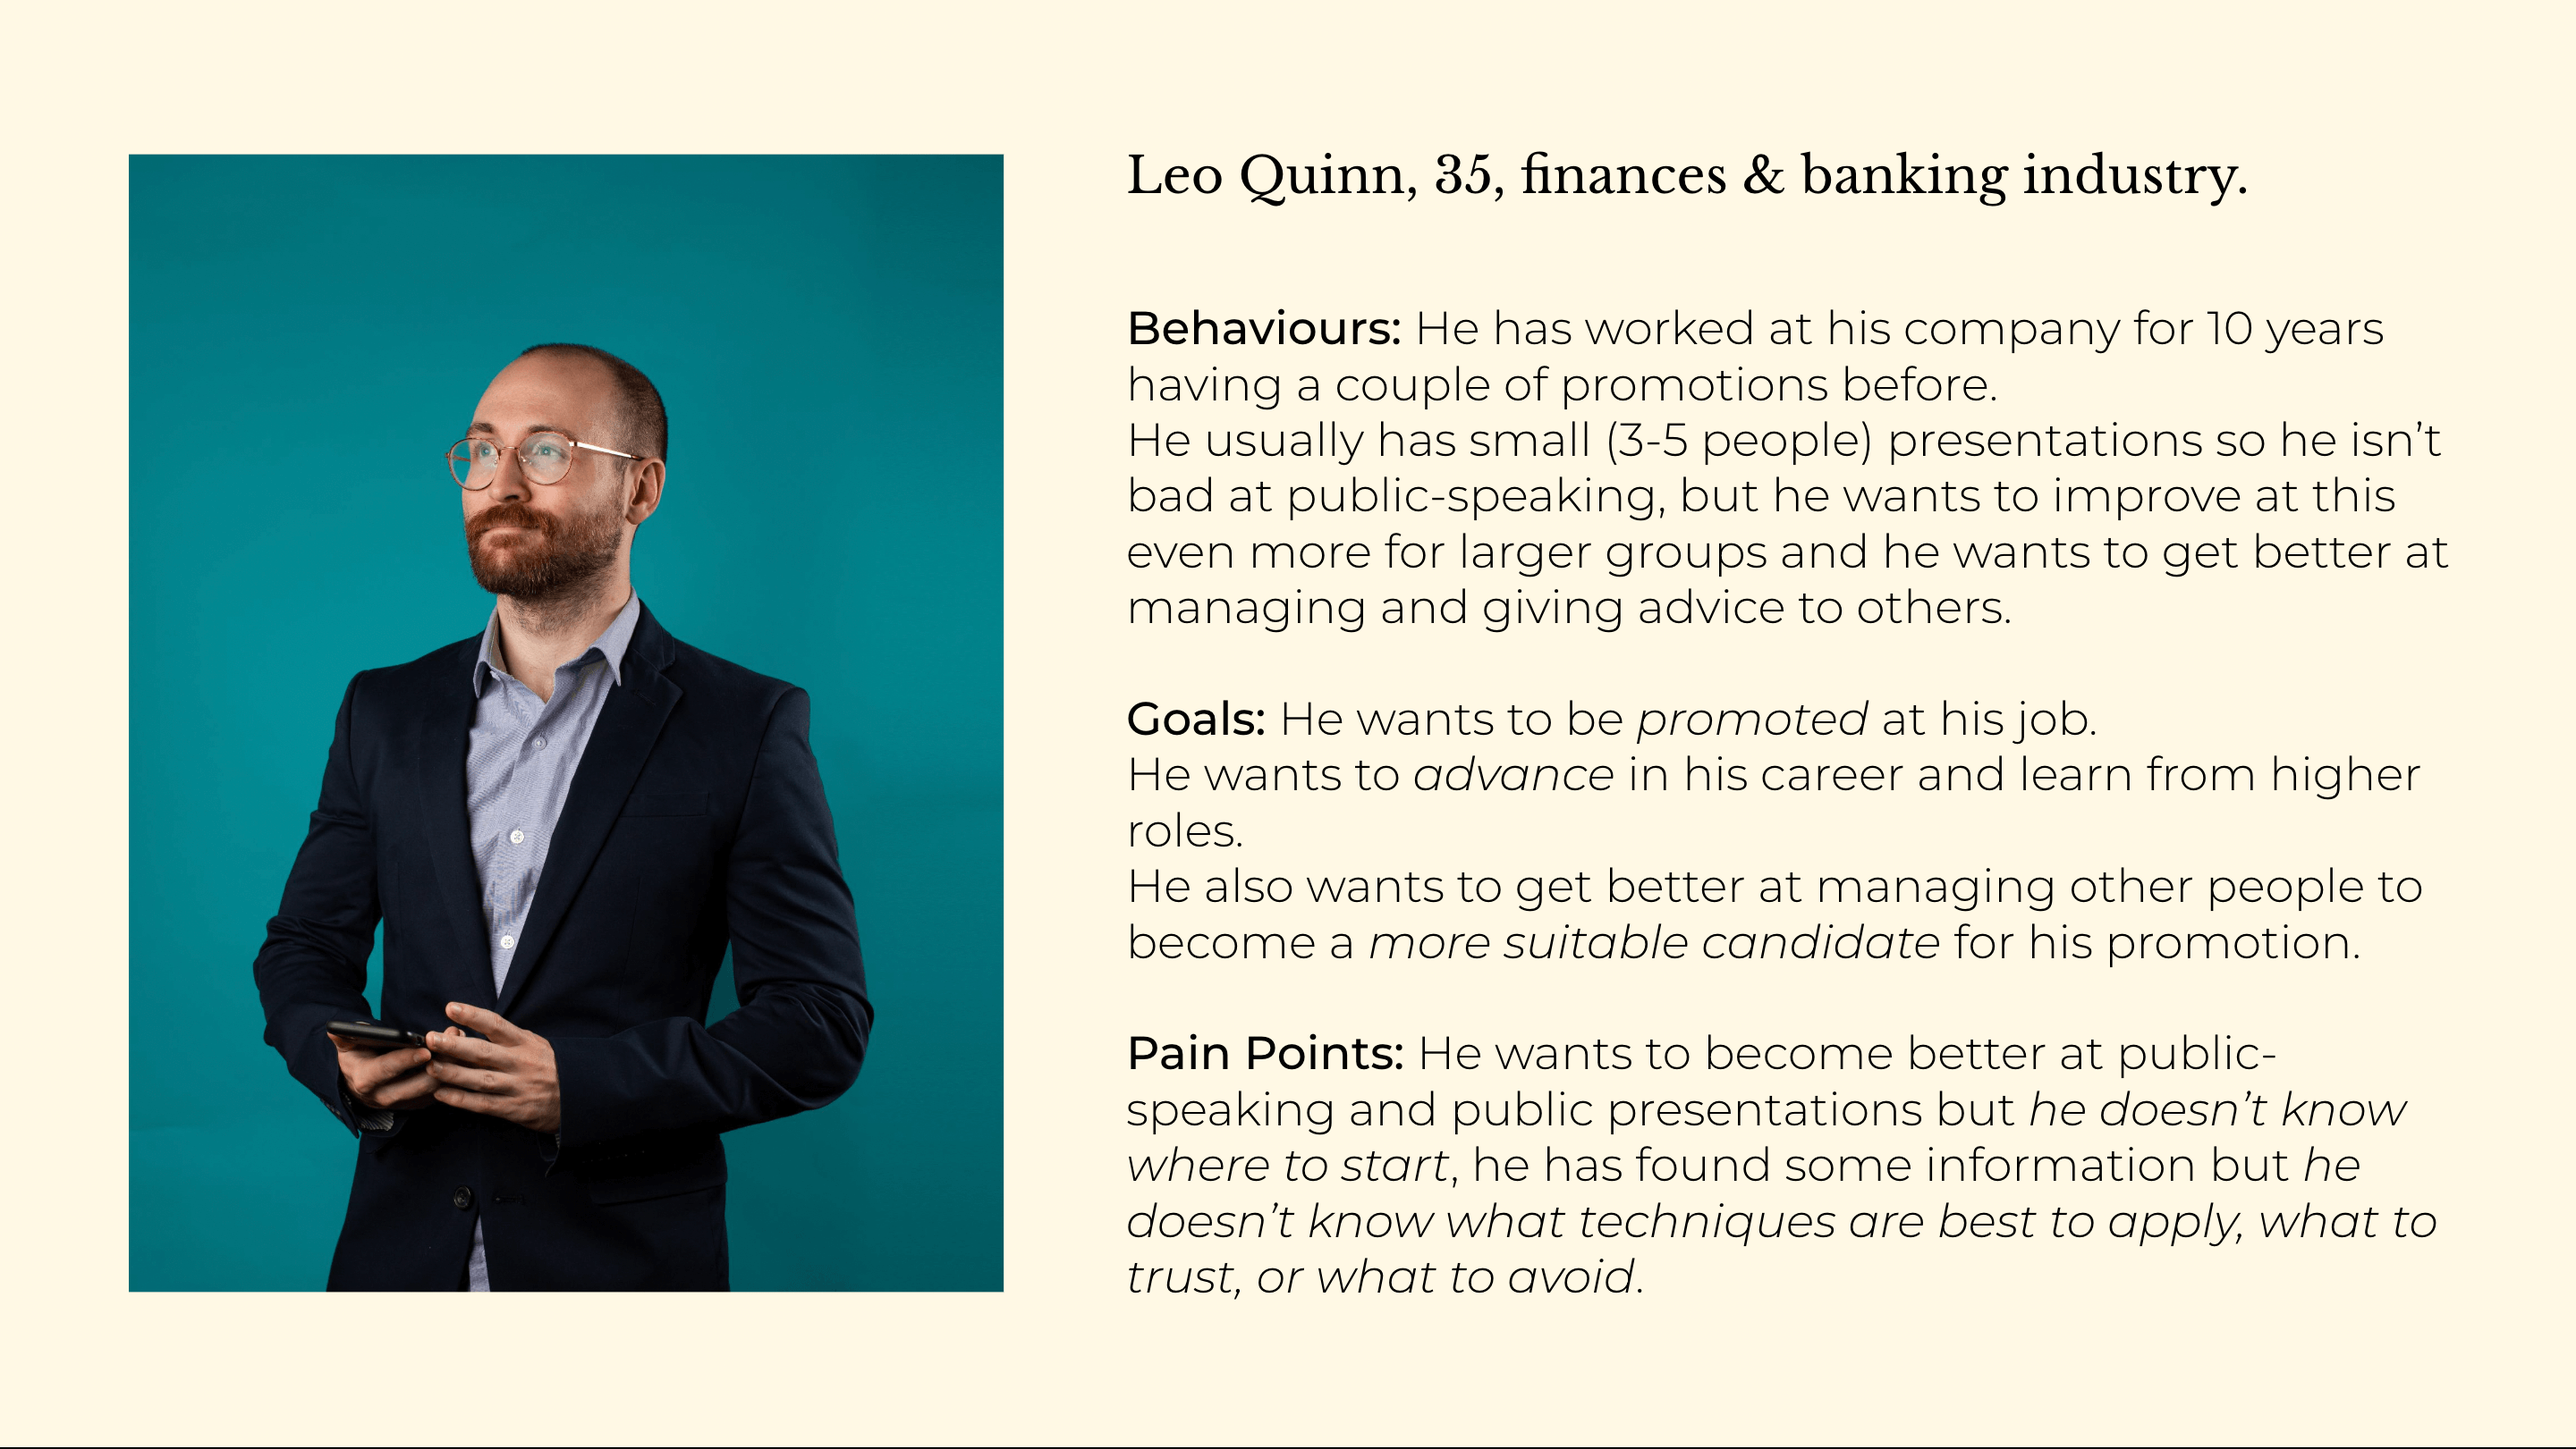
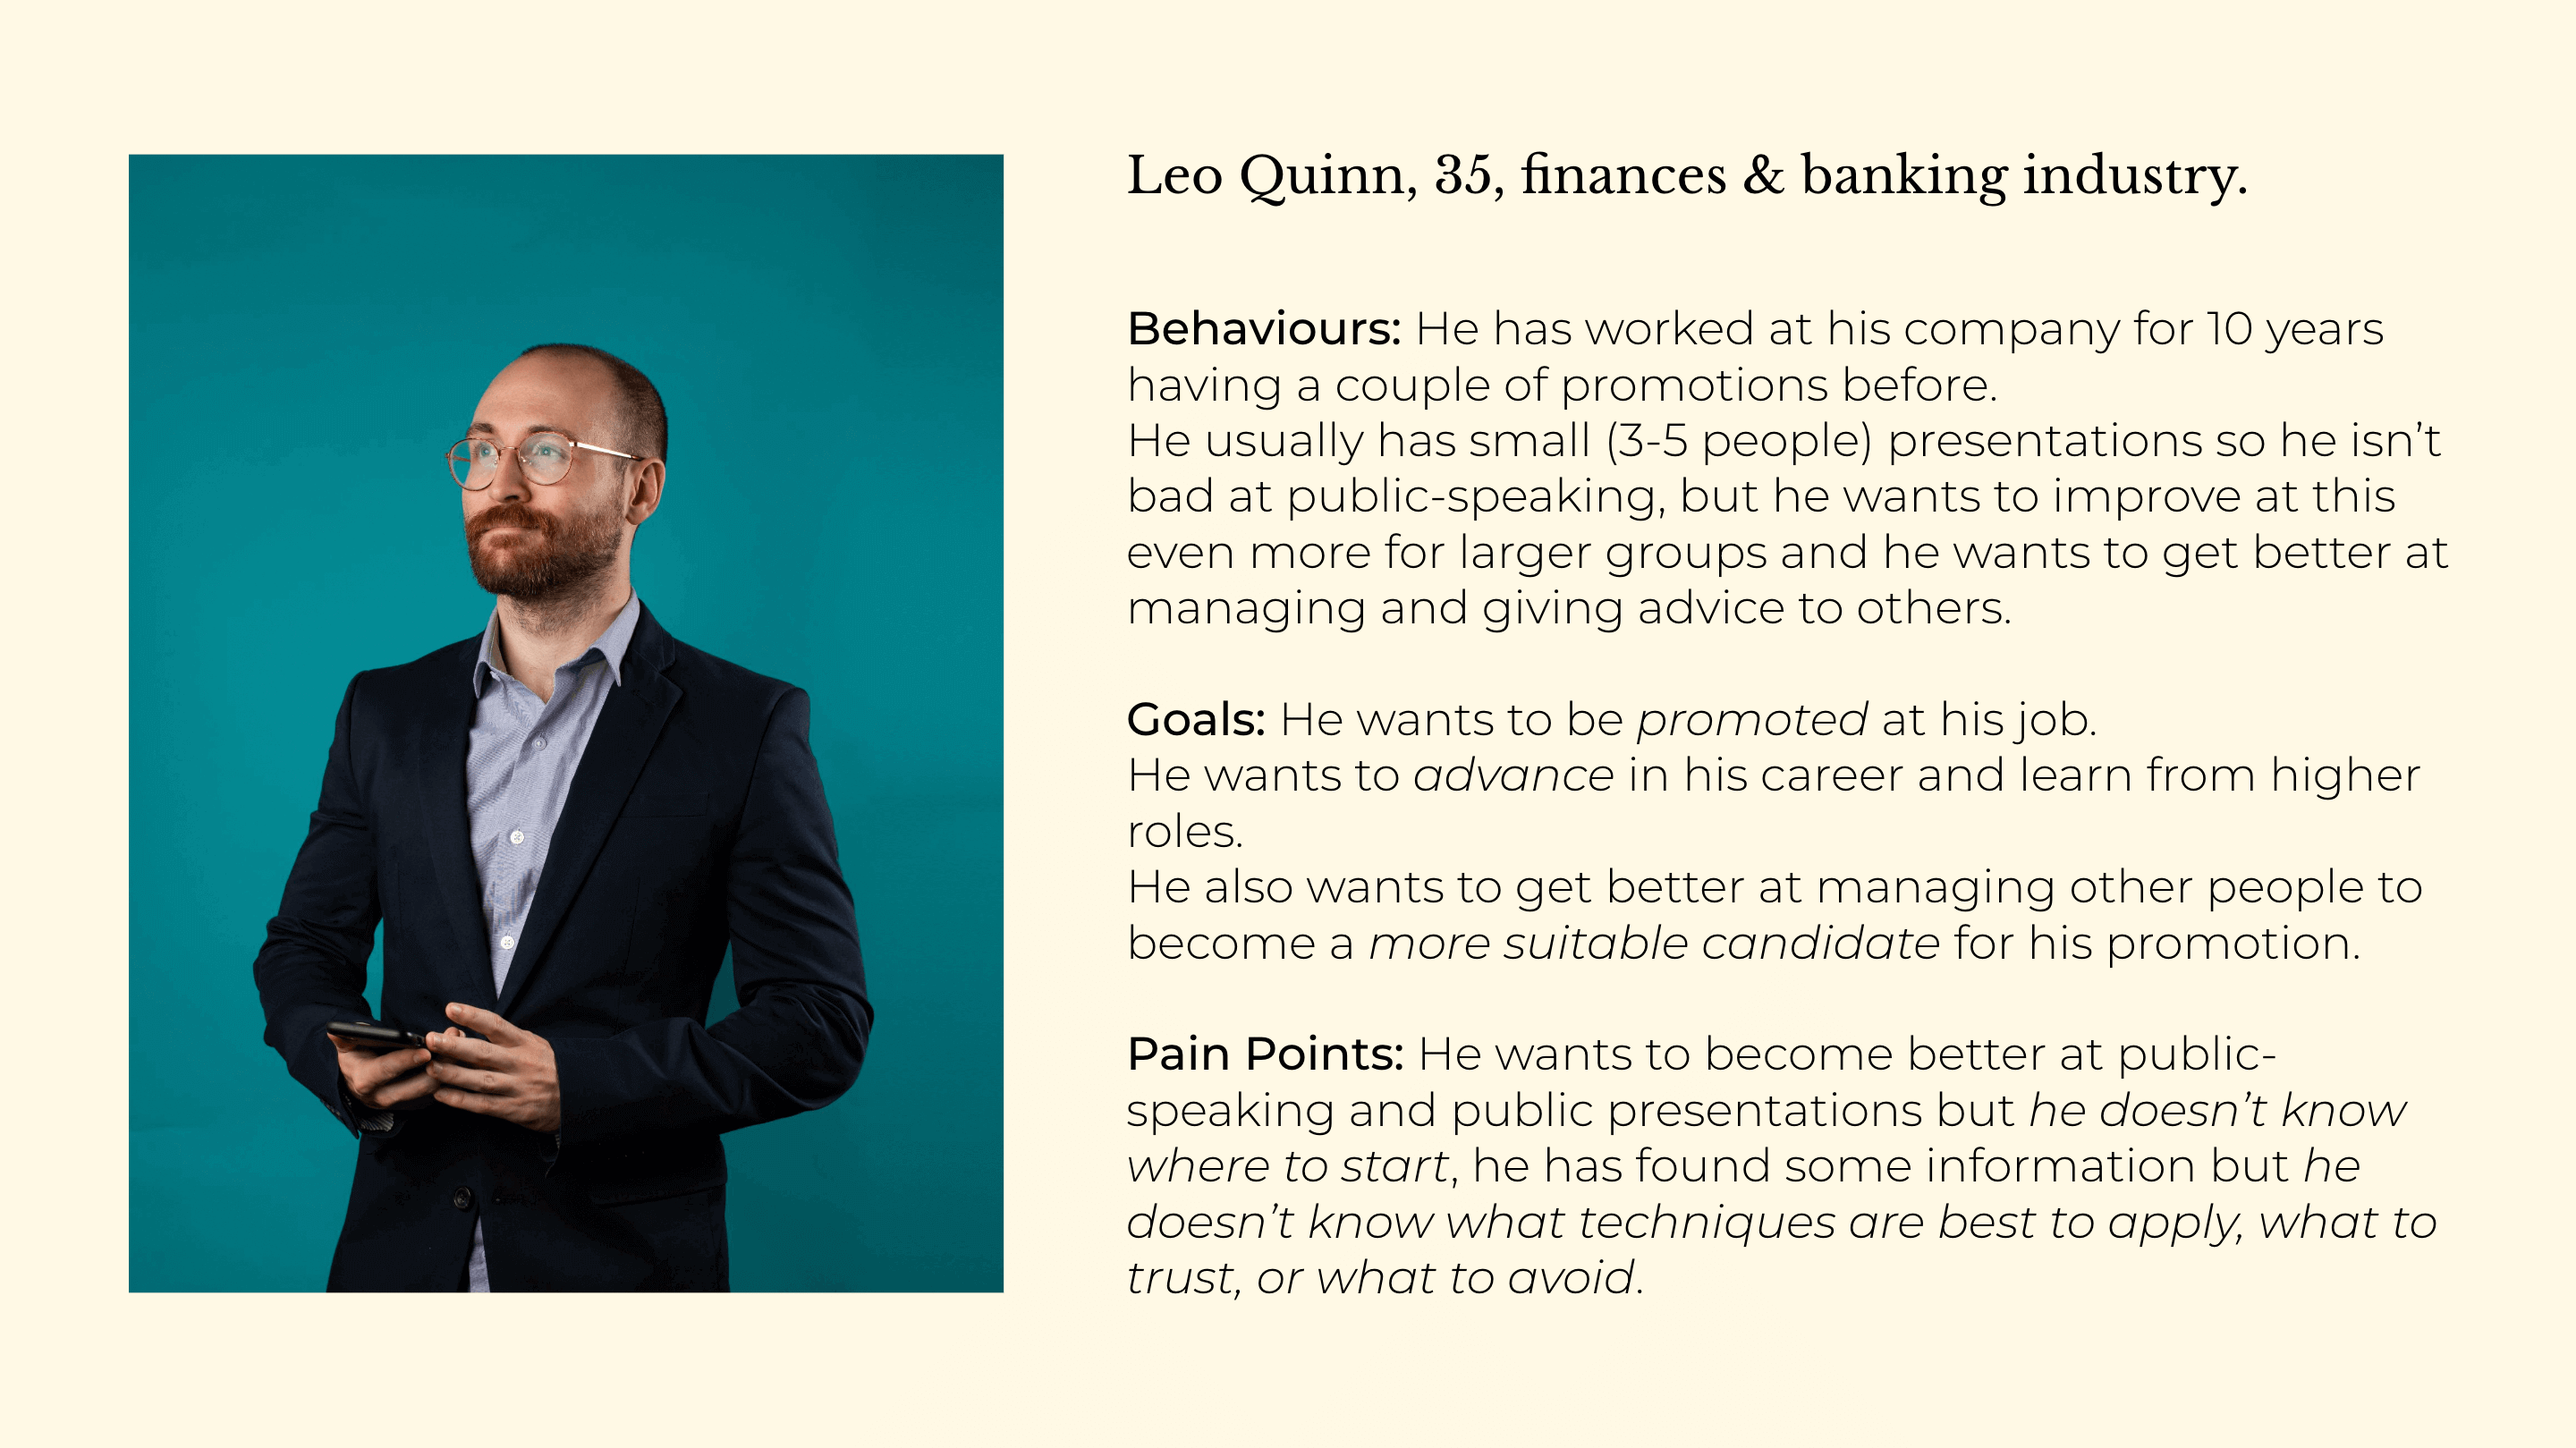
Fixing/Editing "Frog Talk Ltd's" Images.
- Removing "personas'" images bottom border & tinypng.
- Removing borders to "our-approach", "our-methodology", & "online-courses" images, then tinypng.

diff --git a/styles/theme.scss b/styles/theme.scss
@@ -955,7 +955,7 @@ section.project-page-section {
   .page-content-mid {
     font-size:18px;//20px
     img {
-      //border:1px rgba(26,42,55,0.3) solid;//theme-color("turquoise")////
+      border:1px rgba(26,42,55,0.3) solid;//theme-color("turquoise")////
       @include border-radius(0.8rem);
     }
     blockquote {
